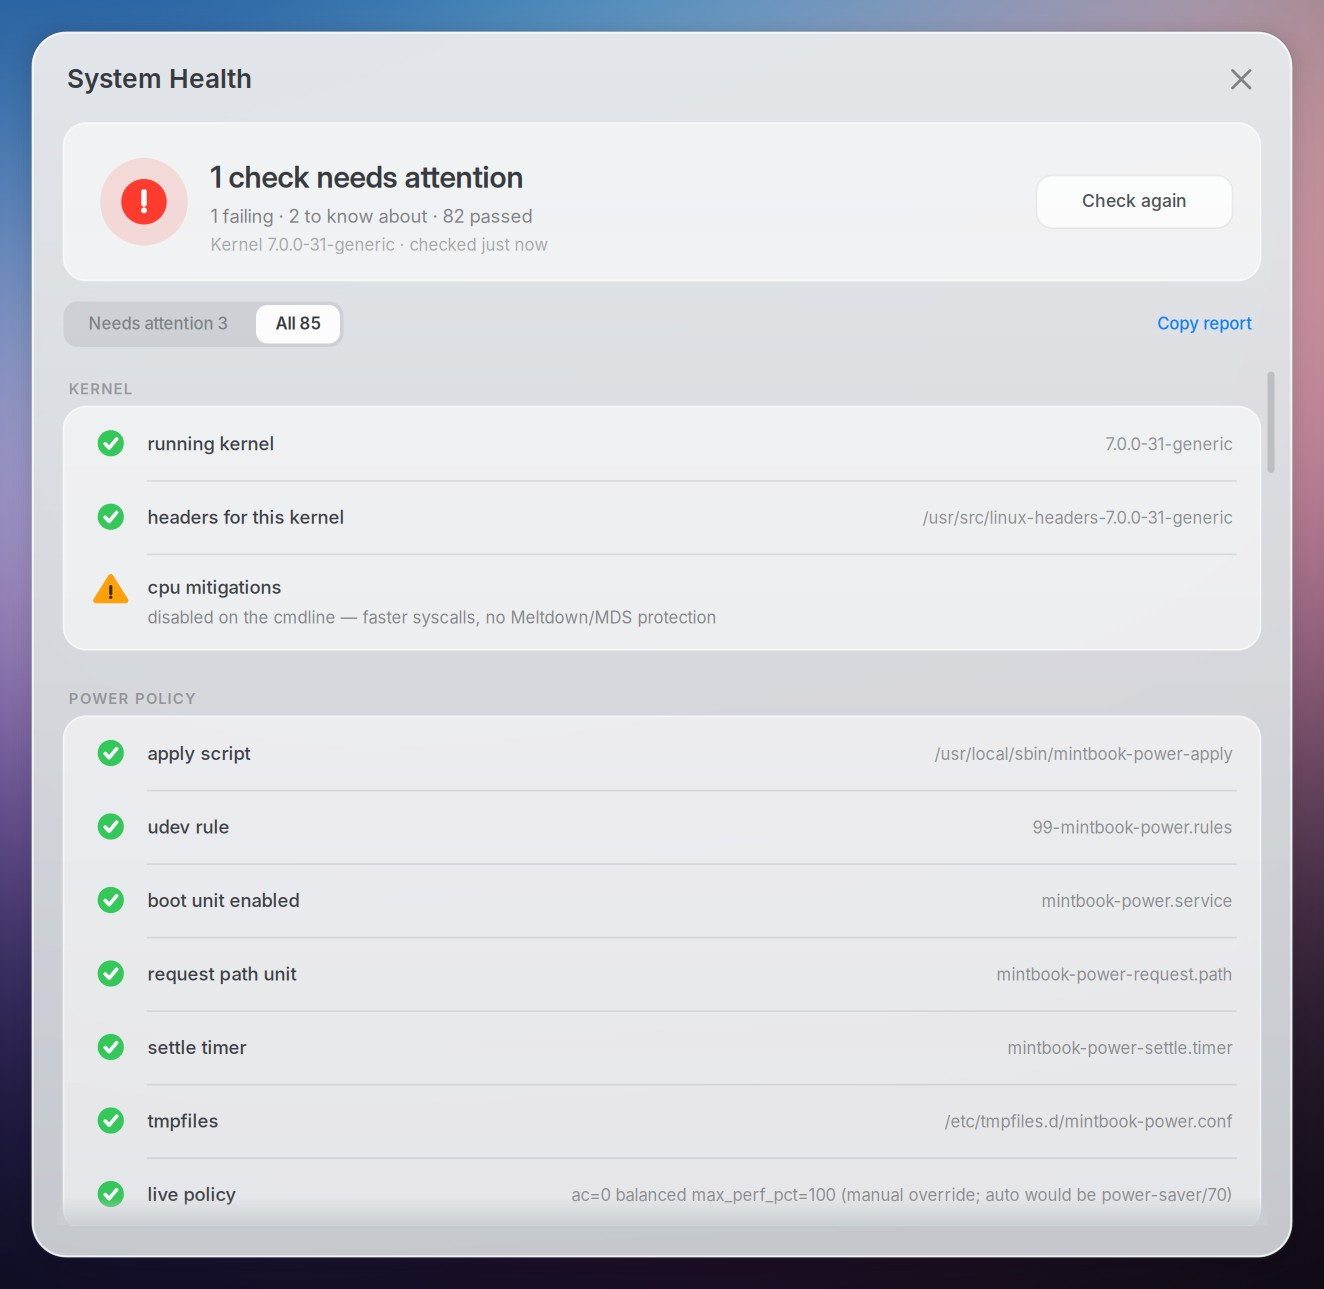
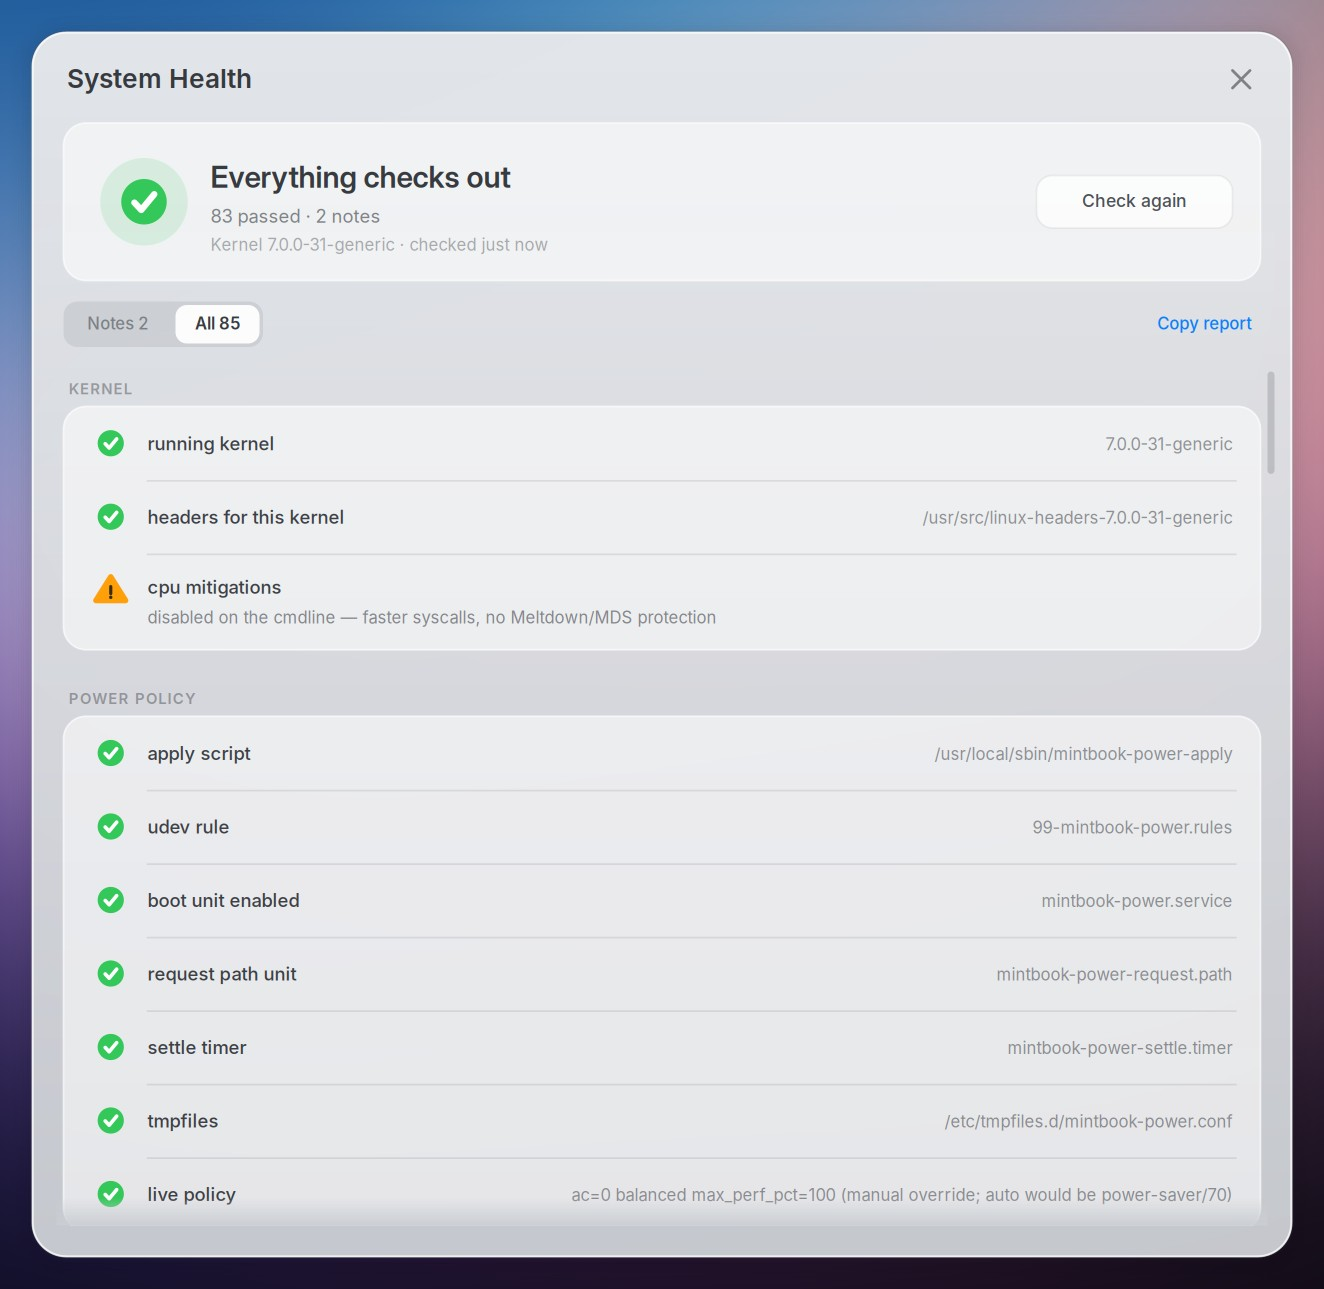
Lead with the pass; let the notes be a word
Notes-only still read as a state of its own: an amber card, its own
headline, and a window that opened on nothing but the notes. Two
warnings on a machine with nothing wrong with it are not a state.

The card is green and says "Everything checks out" unless something
actually failed. The notes are the last word of the count line — "83
passed · 2 notes" — and the window opens on the whole list, so a note is
one amber row among eighty-five rather than the entire contents. Only a
failure takes the headline, the red mark and the opening filter.

README and the doctor card regenerated: both were showing the failed
unit that the restart cleared.

Changed region(s): [[0.0619, 0.1241, 0.4026, 0.1862], [0.0619, 0.2172, 0.2787, 0.2793]]

diff --git a/docs/daily.md b/docs/daily.md
@@ -96,15 +96,17 @@ window — same palette source, same `appearance.applied` light/dark, same
 - A **summary card**: one sentence for the machine's state, the counts under it,
   and the kernel the answer belongs to. Green tick, amber triangle, red circle —
   shape as well as colour, so the state does not depend on seeing hue.
-- **A warning is not a fault**, and the wording keeps that straight. `doctor`
-  exits 0 on a run with nothing but warnings in it, and several of them —
-  `cpu mitigations`, `thermald`, the trimmable services — are recorded policy
-  rather than a problem. So a failure gives *"1 check needs attention"*, notes
-  alone give *"Nothing needs fixing"* over the count, and a clean run gives
-  *"Everything checks out"*. The findings are one line below either way.
-- **Needs attention / All**, defaulting to the first when there is anything in
-  it — labelled **Notes** instead when nothing is failing, for the same reason.
-  With nothing to filter the segment is not drawn at all.
+- **A warning is not a fault**, and nothing in the card treats it as one.
+  `doctor` exits 0 on a run with nothing but warnings in it, and several of
+  them — `cpu mitigations`, `thermald`, the trimmable services — are recorded
+  policy rather than a problem. So the card is green and says *"Everything
+  checks out"* unless something actually failed, the notes are a word at the
+  end of the count line (*"83 passed · 2 notes"*), and only a failure gets the
+  headline: *"1 check needs attention"*.
+- **Notes / All**, or **Needs attention / All** once something is failing. It
+  opens on the first only when there is a failure — opening on the notes would
+  make them the whole window on a machine whose card says it is fine. With
+  nothing to filter the segment is not drawn at all.
 - Findings **grouped under doctor's own section headings**. `doctor --tsv` prints
   those headings now; grouping the desktop view by guessing at label text would
   be a second, quietly diverging opinion about what belongs together.

diff --git a/README.md b/README.md
@@ -107,16 +107,17 @@ running after every one. This is a real run, excerpted—the counts are the whol
 machine:
 
 <p align="center">
-  <img src="docs/images/doctor.svg" alt="bin/doctor output across the kernel, graphics, audio, camera and Bluetooth sections, ending 82 ok, 2 warn, 1 FAIL" width="880">
+  <img src="docs/images/doctor.svg" alt="bin/doctor output across the kernel, graphics, audio, camera and Bluetooth sections, ending 83 ok, 2 warn, 0 FAIL" width="880">
 </p>
 
 The same run has a window. **System Health** is in the Control Center and in
-Overview: a sentence for the machine's state, findings grouped the way `doctor`
-groups them, and the repair command for a finding sitting right under it, one
-click from your clipboard.
+Overview: one sentence for the machine's state, findings grouped the way
+`doctor` groups them, and—when something is wrong—the repair command sitting
+right under the finding, one click from your clipboard. A warning is not a
+failure here, and the card does not pretend otherwise.
 
 <p align="center">
-  <img src="docs/images/health.jpg" alt="The System Health window listing checks by section, with a summary card reading 1 check needs attention" width="760">
+  <img src="docs/images/health.jpg" alt="The System Health window listing checks by section, with a summary card reading Everything checks out, 83 passed and 2 notes" width="760">
 </p>
 
 [See the measurements](docs/performance.md) · [See how fast it feels](docs/feel.md) · [See hardware status](docs/hardware.md)
